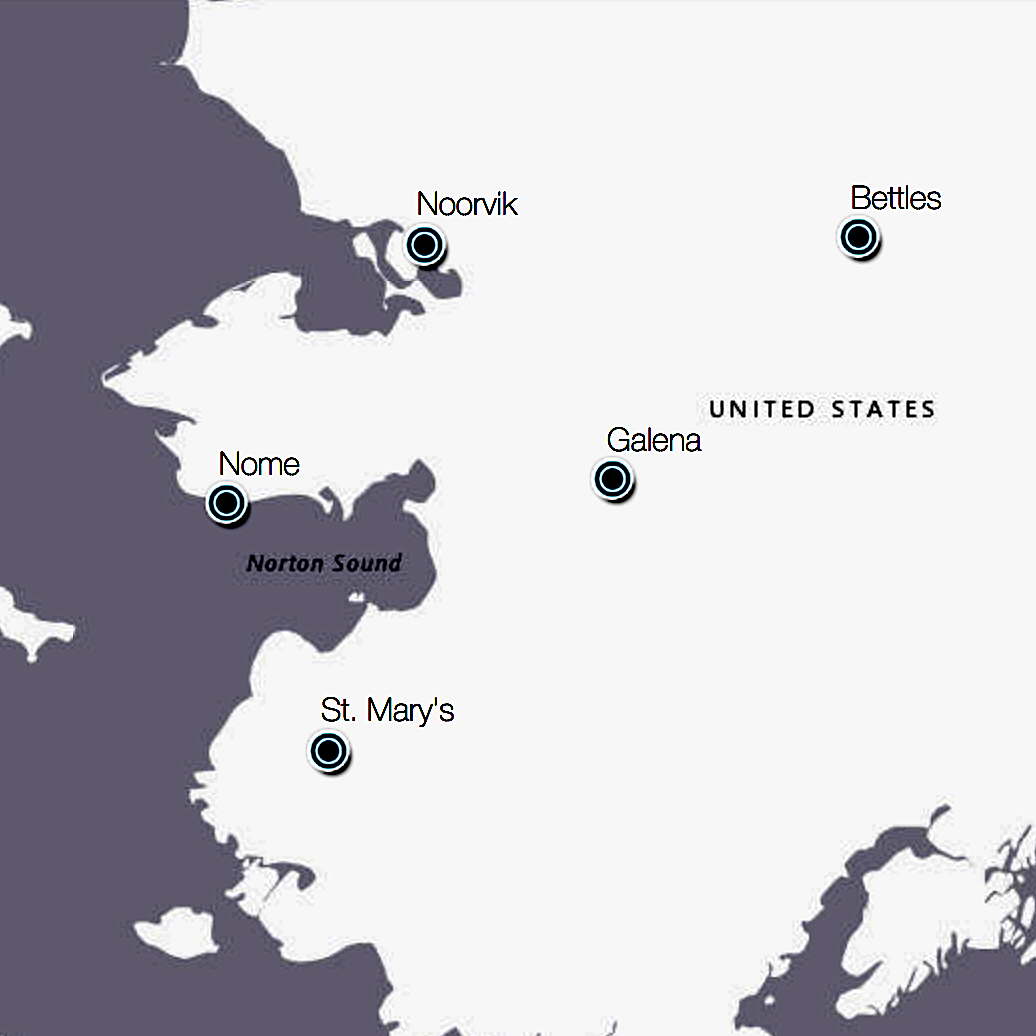
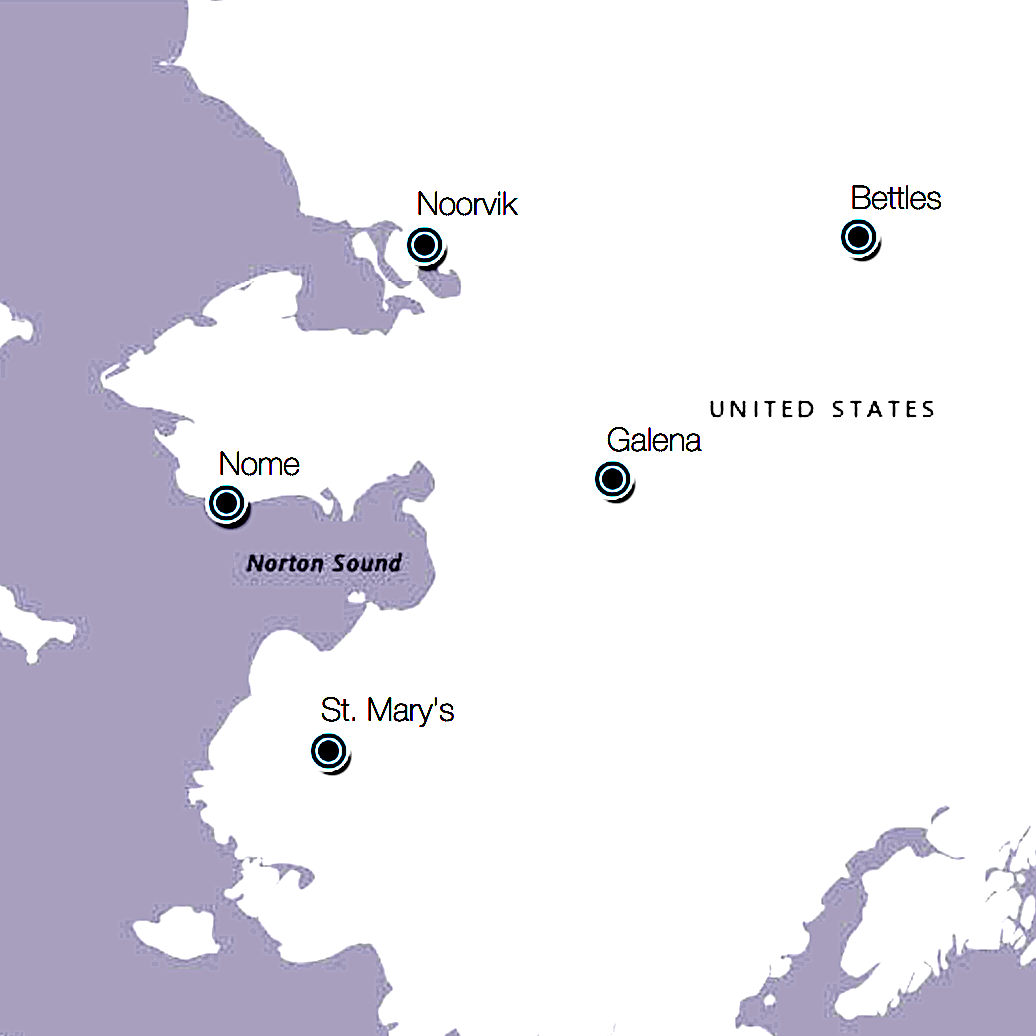
Adjusted weather tile opacity & contrast of AK map.

diff --git a/src/code/views/grid-cell-view.tsx b/src/code/views/grid-cell-view.tsx
@@ -54,7 +54,7 @@ export class GridCellView extends React.Component<
       alignContent: "center",
       justifyContent: "center",
       backgroundColor: displayColor,
-      opacity: gWeatherScenarioSpec.mapConfig.geoMap ? 0.75 : 1.0,
+      opacity: gWeatherScenarioSpec.mapConfig.geoMap ? 0.65 : 1.0,
       color: textColor,
       alignItems: "center",
       fontSize: "24pt",
